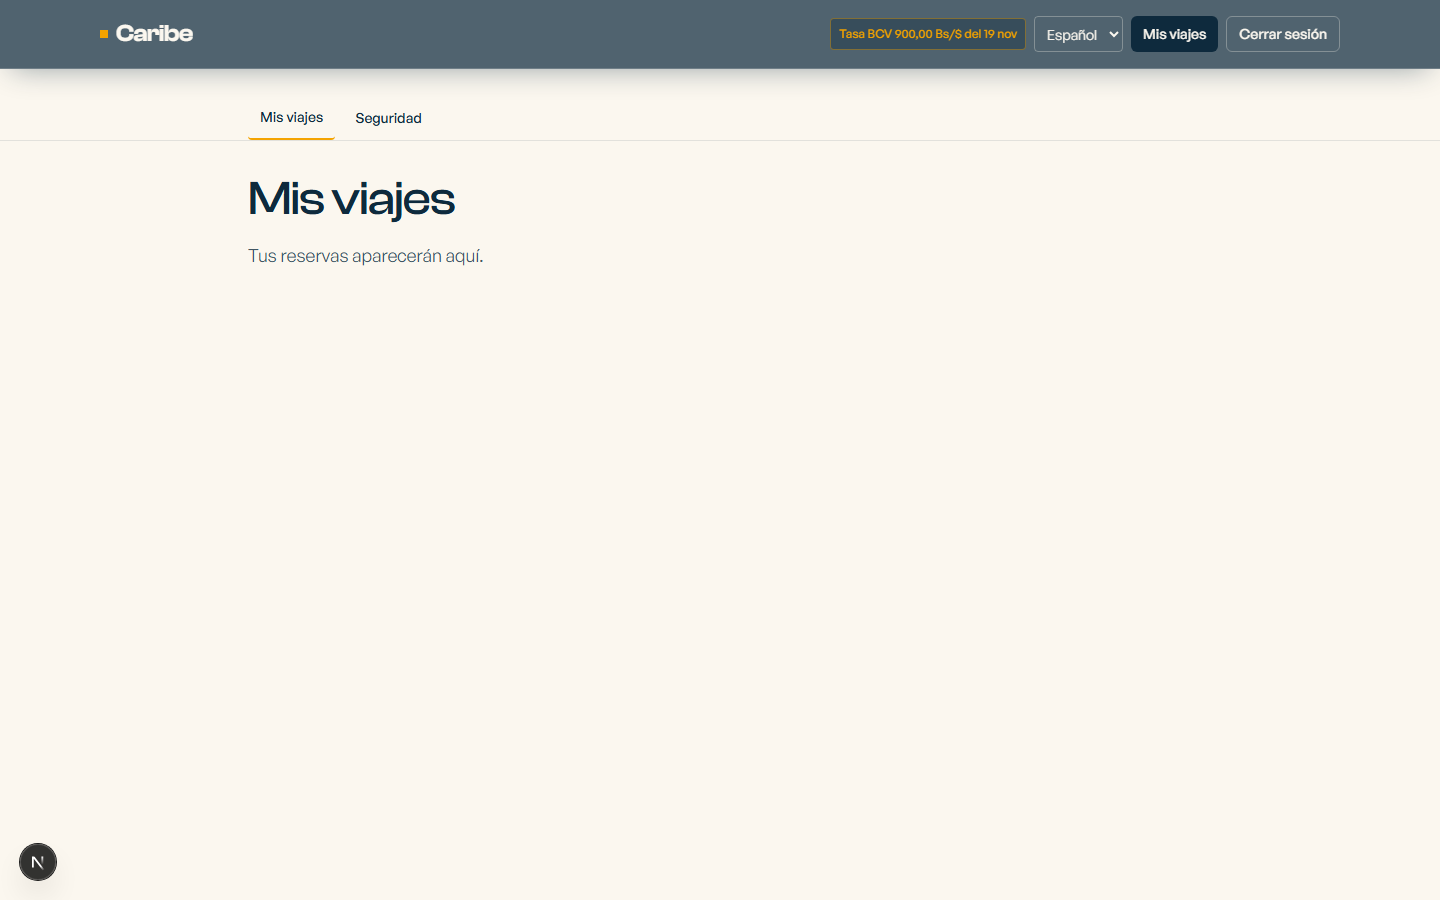
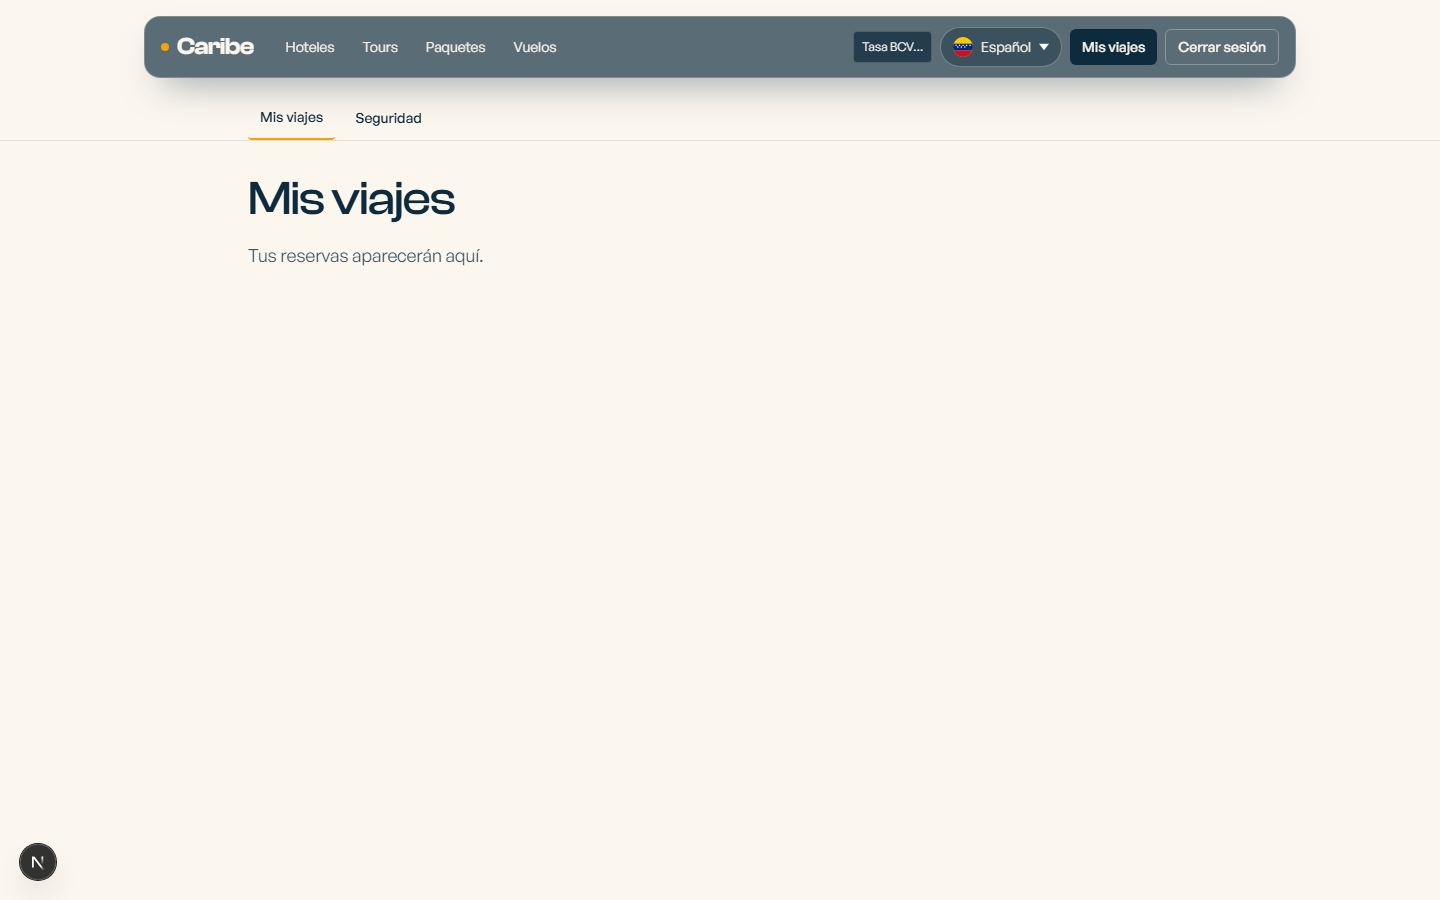
fix(web): garantizar contraste AA y verificarlo en CI
Task: T-NAV-8

diff --git a/apps/web/src/components/two-factor-form.tsx b/apps/web/src/components/two-factor-form.tsx
@@ -180,7 +180,7 @@ export function TwoFactorForm({ redirectTo }: TwoFactorFormProps) {
         </CardDescription>
       </CardHeader>
       <CardContent className="space-y-4">
-        {step === "loading" ? <p className="text-sm text-slate-500">{t("loading")}</p> : null}
+        {step === "loading" ? <p className="text-sm text-ink">{t("loading")}</p> : null}
 
         {step === "verify" ? (
           <form className="space-y-4" onSubmit={onVerify}>
@@ -198,7 +198,7 @@ export function TwoFactorForm({ redirectTo }: TwoFactorFormProps) {
               />
             </div>
             {error ? (
-              <div role="alert" className="space-y-1 text-sm text-red-600">
+              <div role="alert" className="space-y-1 text-sm text-coral-ink">
                 <p>{error}</p>
                 {error === t("expired") ? (
                   <Link className="underline" href="/login">
@@ -227,7 +227,7 @@ export function TwoFactorForm({ redirectTo }: TwoFactorFormProps) {
               />
             </div>
             {error ? (
-              <p role="alert" className="text-sm text-red-600">
+              <p role="alert" className="text-sm text-coral-ink">
                 {error}
               </p>
             ) : null}
@@ -245,14 +245,14 @@ export function TwoFactorForm({ redirectTo }: TwoFactorFormProps) {
               </div>
             ) : null}
             <div className="space-y-1 rounded-md bg-slate-100 p-3">
-              <p className="text-xs font-medium text-slate-500">{t("manualKeyTitle")}</p>
+              <p className="text-xs font-medium text-ink">{t("manualKeyTitle")}</p>
               {parsed?.account ? (
-                <p className="text-xs text-slate-500">
+                <p className="text-xs text-ink">
                   {t("accountLabel")}: {parsed.account}
                 </p>
               ) : null}
               {parsed?.issuer ? (
-                <p className="text-xs text-slate-500">
+                <p className="text-xs text-ink">
                   {t("issuerLabel")}: {parsed.issuer}
                 </p>
               ) : null}
@@ -283,7 +283,7 @@ export function TwoFactorForm({ redirectTo }: TwoFactorFormProps) {
                 />
               </div>
               {error ? (
-                <div role="alert" className="space-y-1 text-sm text-red-600">
+                <div role="alert" className="space-y-1 text-sm text-coral-ink">
                   <p>{error}</p>
                   {error === t("expired") ? (
                     <Link className="underline" href="/login">
@@ -301,7 +301,7 @@ export function TwoFactorForm({ redirectTo }: TwoFactorFormProps) {
 
         {step === "backupCodes" ? (
           <div className="space-y-4">
-            <p role="alert" className="rounded-md bg-coral-500/10 p-3 text-sm text-coral-600">
+            <p role="alert" className="rounded-md bg-coral-500/10 p-3 text-sm text-coral-ink">
               {t("backupCodesWarning")}
             </p>
             {backupCodes.length > 0 ? (
@@ -321,7 +321,7 @@ export function TwoFactorForm({ redirectTo }: TwoFactorFormProps) {
                 </Button>
               </div>
             ) : (
-              <p className="text-sm text-slate-500">{t("backupCodesEmpty")}</p>
+              <p className="text-sm text-ink">{t("backupCodesEmpty")}</p>
             )}
             <form className="space-y-2" onSubmit={onRegenerate}>
               <Label htmlFor="regen-password">{t("regenerateDescription")}</Label>
@@ -339,7 +339,7 @@ export function TwoFactorForm({ redirectTo }: TwoFactorFormProps) {
               </div>
             </form>
             {error ? (
-              <p role="alert" className="text-sm text-red-600">
+              <p role="alert" className="text-sm text-coral-ink">
                 {error}
               </p>
             ) : null}

diff --git a/apps/web/test/today-rate-badge.test.ts b/apps/web/test/today-rate-badge.test.ts
@@ -111,12 +111,12 @@ describe("TodayRateBadge", () => {
 
   it("usa pares de texto y fondo con contraste WCAG AA", () => {
     const available = renderBadge(AVAILABLE_RATE, "es");
-    expect(available).toContain("bg-ink/40");
+    expect(available).toContain("bg-ink/70");
     expect(available).toContain("text-amber");
     expect(contrast(brandToken("amber"), brandToken("ink"))).toBeGreaterThanOrEqual(4.5);
 
     const unavailable = renderBadge(UNAVAILABLE_RATE, "es");
-    expect(unavailable).toContain("bg-ink/40");
+    expect(unavailable).toContain("bg-ink/70");
     expect(unavailable).toContain("text-bone");
     expect(contrast(brandToken("bone"), brandToken("ink"))).toBeGreaterThanOrEqual(4.5);
   });

diff --git a/apps/web/src/components/ui/input.tsx b/apps/web/src/components/ui/input.tsx
@@ -6,7 +6,7 @@ export function Input({ className, type, ...props }: React.ComponentProps<"input
     <input
       type={type}
       className={cn(
-        "flex h-10 w-full rounded border border-ink/20 bg-bone px-3 py-2 text-sm text-ink placeholder:text-ink/50 focus-visible:outline-2 focus-visible:outline-offset-2 focus-visible:outline-amber disabled:cursor-not-allowed disabled:opacity-50",
+        "flex h-10 w-full rounded border border-ink/20 bg-bone px-3 py-2 text-sm text-ink placeholder:text-ink focus-visible:outline-2 focus-visible:outline-offset-2 focus-visible:outline-amber disabled:cursor-not-allowed disabled:opacity-50",
         className,
       )}
       {...props}

diff --git a/apps/web/src/components/today-rate-badge.tsx b/apps/web/src/components/today-rate-badge.tsx
@@ -20,8 +20,8 @@ interface BadgeProps {
 
 const BASE_CLASSES =
   "inline-flex items-center rounded border px-2 py-1 text-xs leading-5 min-h-8 whitespace-nowrap";
-const AVAILABLE_CLASSES = `${BASE_CLASSES} border-amber/40 bg-ink/40 font-medium text-amber`;
-const MUTED_CLASSES = `${BASE_CLASSES} border-bone/20 bg-ink/40 text-bone`;
+const AVAILABLE_CLASSES = `${BASE_CLASSES} border-amber/40 bg-ink/70 font-medium text-amber`;
+const MUTED_CLASSES = `${BASE_CLASSES} border-bone/20 bg-ink/70 text-bone`;
 
 /**
  * Parte presentacional del badge. Es pura y se renderiza en el servidor en los

diff --git a/apps/web/test/visual-identity.test.ts b/apps/web/test/visual-identity.test.ts
@@ -69,6 +69,13 @@ describe("identidad visual Caribe", () => {
     expect(css).toContain("::view-transition-group(*)");
   });
 
+  it("mantiene el texto de acento legible sobre bone en modo oscuro", () => {
+    const css = read("src/app/globals.css");
+    expect(css).toMatch(
+      /@media \(prefers-color-scheme: dark\) \{[\s\S]*?\.text-teal-ink,\s*\.text-coral-ink \{\s*color: var\(--color-ink\);/,
+    );
+  });
+
   it("auto-aloja las dos fuentes aprobadas", () => {
     const layout = read("src/app/[locale]/layout.tsx");
     expect(layout).toContain("next/font/local");

diff --git a/apps/web/src/components/site-header.tsx b/apps/web/src/components/site-header.tsx
@@ -44,7 +44,7 @@ export async function SiteHeader() {
             <Link
               key={type}
               href={{ pathname: "/search", query: { type } }}
-              className="inline-flex min-h-9 items-center rounded-full px-3 text-sm text-bone/80 transition-colors duration-300 hover:bg-bone/10 hover:text-bone"
+              className="inline-flex min-h-9 items-center rounded-full px-3 text-sm text-bone transition-colors duration-300 hover:bg-bone/10 hover:text-bone"
             >
               {t(key)}
             </Link>

diff --git a/apps/web/src/components/ui/card.tsx b/apps/web/src/components/ui/card.tsx
@@ -24,7 +24,7 @@ export function CardTitle({ className, ...props }: React.ComponentProps<"h2">) {
 }
 
 export function CardDescription({ className, ...props }: React.ComponentProps<"p">) {
-  return <p className={cn("text-sm text-slate-500", className)} {...props} />;
+  return <p className={cn("text-sm text-ink", className)} {...props} />;
 }
 
 export function CardContent({ className, ...props }: React.ComponentProps<"div">) {

diff --git a/apps/web/src/app/globals.css b/apps/web/src/app/globals.css
@@ -54,6 +54,13 @@
     --color-coral-ink: #ffa0a0;
     --color-teal-ink: #7adbd5;
   }
+
+  /* Los tokens *-ink son claros para texto sobre ink. En la web publica ese
+   * texto vive sobre bone: se usa ink (token aprobado) para mantener AA. */
+  .text-teal-ink,
+  .text-coral-ink {
+    color: var(--color-ink);
+  }
 }
 
 /* Ritmo compartido de la portada: una sola curva y duraciones moderadas. */

diff --git a/apps/web/src/app/[locale]/search/page.tsx b/apps/web/src/app/[locale]/search/page.tsx
@@ -21,7 +21,7 @@ export default function SearchPage() {
     <div className="mx-auto flex w-full max-w-6xl flex-1 flex-col px-5 pb-12 pt-24 lg:px-10">
       <Suspense
         fallback={
-          <p role="status" aria-live="polite" className="text-sm text-slate-600">
+          <p role="status" aria-live="polite" className="text-sm text-ink">
             {t("loading")}
           </p>
         }

diff --git a/apps/web/src/components/login-form.tsx b/apps/web/src/components/login-form.tsx
@@ -80,7 +80,7 @@ export function LoginForm({ locale, redirectTo }: LoginFormProps) {
             />
           </div>
           {error ? (
-            <p role="alert" className="text-sm text-red-600">
+            <p role="alert" className="text-sm text-coral-ink">
               {error}
             </p>
           ) : null}

diff --git a/openspec/changes/f1-navigation-refresh/tasks.md b/openspec/changes/f1-navigation-refresh/tasks.md
@@ -29,7 +29,7 @@ Una tarea a la vez. Capturas de escritorio y móvil antes de cada commit en
   Prueba: escenario «Secciones a pantalla completa» de `specs/web-ui/spec.md`; `verify:navigation`; capturas de portada en escritorio y móvil; lint, typecheck y tests en verde.
 - [x] T-NAV-16 Suavizar las transiciones de entrada, revelación y cabecera de la portada con degradación segura bajo movimiento reducido.
   Prueba: escenario «Transiciones suaves» de `specs/web-ui/spec.md`; capturas de portada en escritorio y móvil; lint, typecheck y tests en verde.
-- [ ] T-NAV-8 Corregir el contraste de los pares gris sobre blanco con tokens aprobados, añadir `verify:contrast` con Playwright y crear el workflow de CI que lo ejecute.
+- [x] T-NAV-8 Corregir el contraste de los pares gris sobre blanco con tokens aprobados, añadir `verify:contrast` con Playwright y crear el workflow de CI que lo ejecute.
   Prueba: escenarios «Contraste AA verificable» de `specs/web-ui/spec.md`; capturas claras y oscuras en escritorio y móvil; lint, typecheck y tests en verde.
 - [ ] T-NAV-9 Hacer real «Iniciar sesión» y construir `/account/trips` con reservas de `GET /api/v1/bookings`, estados accesibles y nota honesta sobre documentos.
   Prueba: escenarios «Acceso del cliente a sus viajes» de `specs/web-ui/spec.md`; capturas de login y Mis viajes en escritorio y móvil; lint, typecheck y tests en verde.
